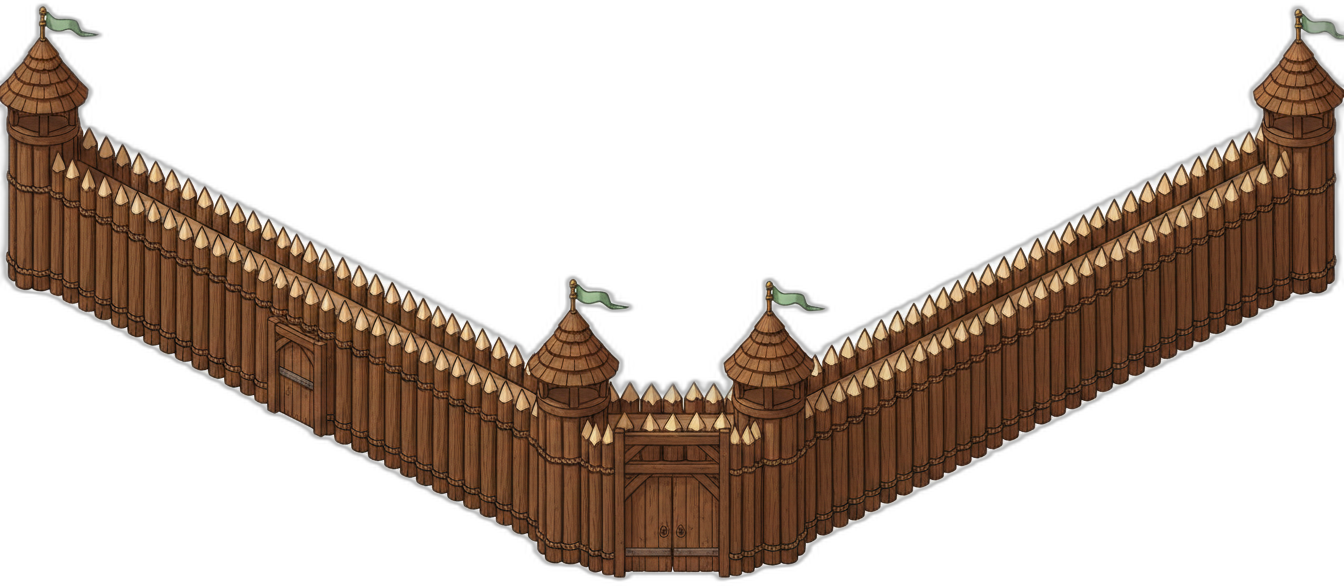
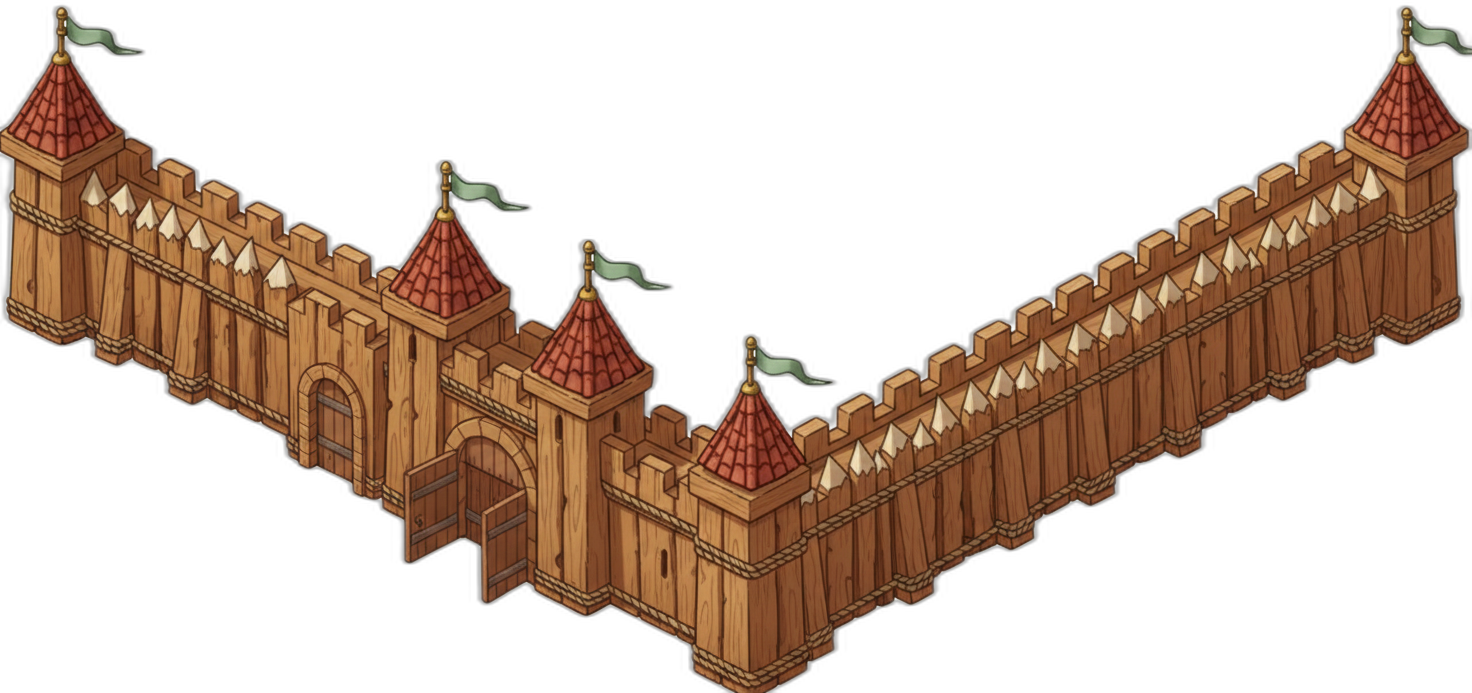
배럭 성벽 건축 시스템 추가 — 건축 패널 성벽 카드 (t0→t1→t2)
- 성벽 3티어 이미지 (t0 목책/t1 석성/t2 강화석성) 최종 확정
- 건축 패널에 성벽 카드 추가: 건축(t0) + 업그레이드(t1→t2)
- barracksWallTier 상태 관리 (localStorage)
- updateFrontWallTier: fortification growth → barracksWallTier 기반으로 전환
- 미건축 시 성벽 숨김 처리

diff --git a/demo/src/main.js b/demo/src/main.js
@@ -3248,6 +3248,18 @@ async function boot() {
     training: { wood: 1000, vis: 2500 },
     smithy:   { wood: 1500, iron: 800, vis: 2500 },
   };
+  // 성벽 티어 (0=목책, 1=석성, 2=강화석성) — -1=미건축
+  const WALL_TIER_KEY = "barracks_wall_tier_v1";
+  let barracksWallTier = (() => {
+    try { const v = localStorage.getItem(WALL_TIER_KEY); return v !== null ? parseInt(v) : -1; } catch { return -1; }
+  })();
+  function saveWallTier() { try { localStorage.setItem(WALL_TIER_KEY, String(barracksWallTier)); } catch (e) {} }
+  const WALL_TIER_IMGS = ["fg_front_wall_t0.png", "fg_front_wall_t1.png", "fg_front_wall_t2.png"];
+  const WALL_TIER_LABEL = ["목책 (Tier 0)", "석성 (Tier 1)", "강화 석성 (Tier 2)"];
+  const WALL_BUILD_COST  = { wood: 1200, stone: 500 };
+  const WALL_UPGRADE_COST = [{ stone: 1500, iron: 600 }, { stone: 3000, iron: 1500 }];
+  const WALL_UNLOCK_LV = 5;
+
   // 건축 완료 상태 (localStorage) — true = 지어진 상태
   const CONSTRUCTED_KEY = "barracks_constructed_v2";
   let barracksConstructed = { kitchen: false, smithy: false, training: false };
@@ -3673,11 +3685,11 @@ async function boot() {
   };
 
   function updateFrontWallTier() {
-    const wallLv = getGrowthLevel("fortification", "wall");
-    const tier = 1; // TODO: restore — const tier = wallLv >= 8 ? 2 : wallLv >= 4 ? 1 : 0;
-    const WALL_IMGS = ["fg_front_wall_t0.png", "fg_front_wall_t1.png", "fg_front_wall_gate.png"];
     const img = barracksView?.querySelector(".bk-frontwall");
-    if (img) img.src = `./img/barracks/${WALL_IMGS[tier]}`;
+    if (!img) return;
+    if (barracksWallTier < 0) { img.style.display = "none"; return; }
+    img.style.display = "";
+    img.src = `./img/barracks/${WALL_TIER_IMGS[barracksWallTier]}`;
   }
 
   function openBarracks() {
@@ -4219,7 +4231,7 @@ async function boot() {
     const list = document.getElementById("bk-build-list");
     if (!list) return;
     const famLv = getState()?.family?.level || 1;
-    list.innerHTML = Object.keys(BUILDING_DEF).map(bld => {
+    list.innerHTML = renderWallCard() + Object.keys(BUILDING_DEF).map(bld => {
       const label     = FACILITY_LABEL[bld];
       const unlockLv  = FACILITY_UNLOCK_LV[bld];
       const built     = isFacilityBuilt(bld);
@@ -4252,6 +4264,76 @@ async function boot() {
     list.querySelectorAll("[data-build]").forEach(btn => {
       btn.addEventListener("click", () => constructBuilding(btn.dataset.build));
     });
+    // 성벽 카드 이벤트
+    list.querySelector("[data-wall-build]")?.addEventListener("click", () => constructWall());
+    list.querySelector("[data-wall-upgrade]")?.addEventListener("click", () => upgradeWall());
+  }
+  function renderWallCard() {
+    const famLv = getState()?.family?.level || 1;
+    const unlocked = famLv >= WALL_UNLOCK_LV;
+    if (barracksWallTier < 0) {
+      const cost = WALL_BUILD_COST;
+      const canAfford = canAffordCost(cost);
+      const costHtml = unlocked ? `<div class="bk-build-card-cost ${canAfford ? "" : "short"}">${formatCost(cost)}</div>` : "";
+      const actionHtml = !unlocked
+        ? `<span class="bk-build-badge locked">🔒 Lv.${WALL_UNLOCK_LV} 필요</span>`
+        : `<button class="bk-build-btn" data-wall-build="1" ${canAfford ? "" : "disabled"}>🏗 건축</button>`;
+      return `<div class="bk-build-card">
+        <div class="bk-build-card-icon">🏰</div>
+        <div class="bk-build-card-info">
+          <div class="bk-build-card-name">성벽</div>
+          <div class="bk-build-card-sub">방어 · 가문 Lv.${WALL_UNLOCK_LV} 해금</div>
+          ${costHtml}
+        </div>
+        <div class="bk-build-card-action">${actionHtml}</div>
+      </div>`;
+    }
+    if (barracksWallTier >= 2) {
+      return `<div class="bk-build-card built">
+        <div class="bk-build-card-icon">🏰</div>
+        <div class="bk-build-card-info">
+          <div class="bk-build-card-name">성벽</div>
+          <div class="bk-build-card-sub">${WALL_TIER_LABEL[2]}</div>
+        </div>
+        <div class="bk-build-card-action"><span class="bk-build-badge done">✅ 최고 단계</span></div>
+      </div>`;
+    }
+    const nextTier = barracksWallTier + 1;
+    const cost = WALL_UPGRADE_COST[barracksWallTier];
+    const canAfford = canAffordCost(cost);
+    return `<div class="bk-build-card">
+      <div class="bk-build-card-icon">🏰</div>
+      <div class="bk-build-card-info">
+        <div class="bk-build-card-name">성벽</div>
+        <div class="bk-build-card-sub">현재: ${WALL_TIER_LABEL[barracksWallTier]} → ${WALL_TIER_LABEL[nextTier]}</div>
+        <div class="bk-build-card-cost ${canAfford ? "" : "short"}">${formatCost(cost)}</div>
+      </div>
+      <div class="bk-build-card-action">
+        <button class="bk-build-btn" data-wall-upgrade="1" ${canAfford ? "" : "disabled"}>⬆ 업그레이드</button>
+      </div>
+    </div>`;
+  }
+  function constructWall() {
+    if (!canAffordCost(WALL_BUILD_COST)) { showToast("자원 부족", "warn"); return; }
+    spendCost(WALL_BUILD_COST);
+    barracksWallTier = 0;
+    saveWallTier();
+    updateFrontWallTier();
+    updateHud();
+    showToast("🏰 성벽 건축 완료!", "exp");
+    renderBuildList();
+  }
+  function upgradeWall() {
+    if (barracksWallTier >= 2) return;
+    const cost = WALL_UPGRADE_COST[barracksWallTier];
+    if (!canAffordCost(cost)) { showToast("자원 부족", "warn"); return; }
+    spendCost(cost);
+    barracksWallTier++;
+    saveWallTier();
+    updateFrontWallTier();
+    updateHud();
+    showToast(`🏰 성벽 ${WALL_TIER_LABEL[barracksWallTier]} 업그레이드 완료!`, "exp");
+    renderBuildList();
   }
   function constructBuilding(bld) {
     const cost = FACILITY_BUILD_COST[bld];

diff --git a/demo/index.html b/demo/index.html
@@ -121,7 +121,7 @@
           <span class="bk-bld-label">⚔ 훈련장 <span class="bk-bld-lv">Lv 1</span></span>
         </div>
         <!-- 앞쪽 성벽 + 게이트 (foreground) — 가로 wide, 하단 위치 -->
-        <img class="bk-frontwall" src="./img/barracks/fg_front_wall_t1.png" alt="" />
+        <img class="bk-frontwall bk-frontwall--hidden" src="./img/barracks/fg_front_wall_t0.png" alt="" />
         <!-- 건축 패널 — 하단 슬라이드업 -->
         <div id="bk-build-panel" class="bk-build-panel">
           <div class="bk-build-panel-head">

diff --git a/demo/style.css b/demo/style.css
@@ -1150,6 +1150,7 @@ html, body { height: 100%; overflow: hidden; background: #050507; color: #e8e8e8
 .bk-bg { position: absolute; inset: 0; width: 100%; height: 100%;
   object-fit: cover; object-position: center top; pointer-events: none; }
 /* 앞쪽 성벽 + 게이트 — foreground 레이어. height: auto — 이미지 비율 그대로 사용. */
+.bk-frontwall--hidden { display: none; }
 .bk-frontwall { position: absolute; left: 0%; bottom: 6%;
   width: 100%; max-width: none; height: auto;
   z-index: 5;
